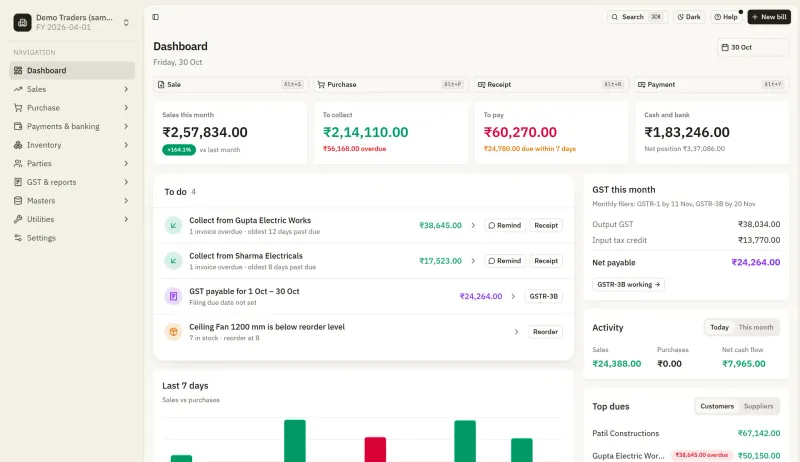
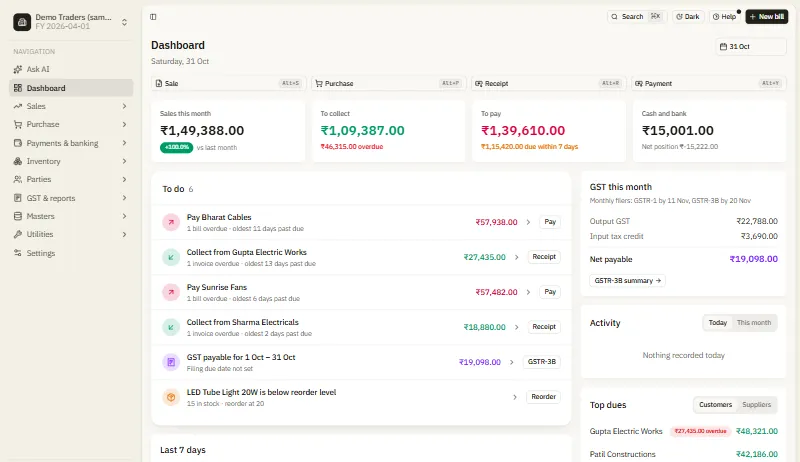
feat(landing): AI-powered hero, fresh dashboard, demo with real figures
- Hero headline: "AI-powered GST billing and accounting software for
  Indian businesses"; the subhead mentions asking your books a question.
- Hero dashboard recaptured (1440x900 at 2x, headless Edge) from a
  fictional "Demo Traders (sample)" company on the Neon test branch, so
  it shows Ask AI in the sidebar. The WhatsApp callout, no longer
  visible in the capture, becomes "Ask AI about your books".
- Ask AI demo figures and wording now come from the real Ask AI answers
  on that sample company. The first question is "Which customers owe me
  money?" because "Who owes me the most?" doesn't answer reliably yet.

diff --git a/src/features/marketing/landing-content.ts b/src/features/marketing/landing-content.ts
@@ -39,9 +39,10 @@ export const NAV_LINKS: ReadonlyArray<NavLink> = [
 ]
 
 export const HERO = {
-  headline: 'Free GST billing and accounting software for Indian businesses',
+  headline:
+    'AI-powered GST billing and accounting software for Indian businesses',
   subhead:
-    'GST invoices, inventory, khata and GST returns on real double-entry books. Fast at the counter, and moving from Tally takes minutes.',
+    'GST invoices, inventory, khata and GST returns on real double-entry books. Ask your books a question in Hindi or English, and move from Tally in minutes.',
   primaryCta: { label: 'Start free', to: '/signup' as const },
   secondaryCta: { label: 'View on GitHub', href: SITE.githubUrl },
   reassurance: 'Free to use · No credit card · Open source (MIT)',
@@ -59,11 +60,11 @@ export const HERO_SCREENSHOT: Screenshot = {
   src: '/screenshots/dashboard.webp',
   width: 1920,
   height: 1109,
-  alt: "HisaabKro dashboard showing sales this month, amounts to collect and pay, a to-do list with payment reminders and this month's GST",
+  alt: "HisaabKro dashboard with Ask AI in the sidebar, sales this month, amounts to collect and pay, a to-do list of overdue bills and invoices, and this month's GST",
 }
 
 export const HERO_CALLOUTS = [
-  { icon: 'whatsapp', label: 'Payment reminder on WhatsApp' },
+  { icon: 'ai', label: 'Ask AI about your books' },
   { icon: 'gst', label: 'GSTR-3B net payable' },
   { icon: 'stock', label: 'Stock matches the books' },
 ] as const
@@ -158,7 +159,7 @@ export const SHOWCASE = {
       title: 'Ask your books a question',
       body: 'Type a question in Hindi or English and get the answer from your own invoices, bills and payments, with the figures it is based on.',
       points: [
-        '"Who owes me the most?", "GST payable this month?", "Cash aur bank mein kitna hai?"',
+        '"Which customers owe me money?", "GST payable this month?", "Cash aur bank mein kitna hai?"',
         'Every answer links to the report it came from, so you can check it',
         'Only reads your books: it never posts or changes an entry',
         'Open Ask AI from the sidebar, or press Alt+A',
@@ -182,34 +183,30 @@ export type AskAiDemoScenario = {
  */
 export const ASK_AI_DEMO = {
   label:
-    'Ask AI answering "Who owes me the most?" with the amount each customer owes, then "GST payable this month?" with output GST, input tax credit and the net payable.',
+    'Ask AI answering "Which customers owe me money?" with the amount each customer owes, then "GST payable this month?" with output GST, input tax credit and the net payable.',
   workingSteps: ['Reading your books…', 'Checking the reports…'],
   scenarios: [
     {
-      question: 'Who owes me the most?',
-      answer: 'Patil Constructions owes you the most. Your top dues:',
+      question: 'Which customers owe me money?',
+      answer: 'Gupta Electric Works owes you the most: ₹48,321.00.',
       figures: [
-        { label: 'Patil Constructions', amount: '₹67,142' },
         {
           label: 'Gupta Electric Works',
-          amount: '₹50,150',
-          note: '₹38,645 overdue',
+          amount: '₹48,321',
+          note: '₹27,435 overdue',
         },
-        {
-          label: 'Sharma Electricals',
-          amount: '₹17,523',
-          note: 'overdue',
-        },
+        { label: 'Patil Constructions', amount: '₹42,186' },
+        { label: 'Sharma Electricals', amount: '₹18,880', note: 'overdue' },
       ],
       link: 'Ageing report',
     },
     {
       question: 'GST payable this month?',
-      answer: 'Your net GST payable for October is ₹24,264:',
+      answer: "₹19,098.00 is this month's net GST payable.",
       figures: [
-        { label: 'Output GST', amount: '₹38,034' },
-        { label: 'Input tax credit', amount: '₹13,770' },
-        { label: 'Net payable', amount: '₹24,264' },
+        { label: 'Output GST', amount: '₹22,788' },
+        { label: 'Input tax credit', amount: '₹3,690' },
+        { label: 'Net payable', amount: '₹19,098' },
       ],
       link: 'GSTR-3B',
     },

diff --git a/src/features/marketing/components/landing-hero.tsx b/src/features/marketing/components/landing-hero.tsx
@@ -2,9 +2,9 @@ import { Link } from '@tanstack/react-router'
 import {
   ArrowRightIcon,
   GitBranchIcon,
-  MessageCircleIcon,
   PackageCheckIcon,
   ReceiptIndianRupeeIcon,
+  SparklesIcon,
 } from 'lucide-react'
 
 import { Badge } from '#/components/ui/badge.tsx'
@@ -19,7 +19,7 @@ import {
 import { cn } from '#/lib/utils.ts'
 
 const CALLOUT_ICON = {
-  whatsapp: MessageCircleIcon,
+  ai: SparklesIcon,
   gst: ReceiptIndianRupeeIcon,
   stock: PackageCheckIcon,
 } as const
